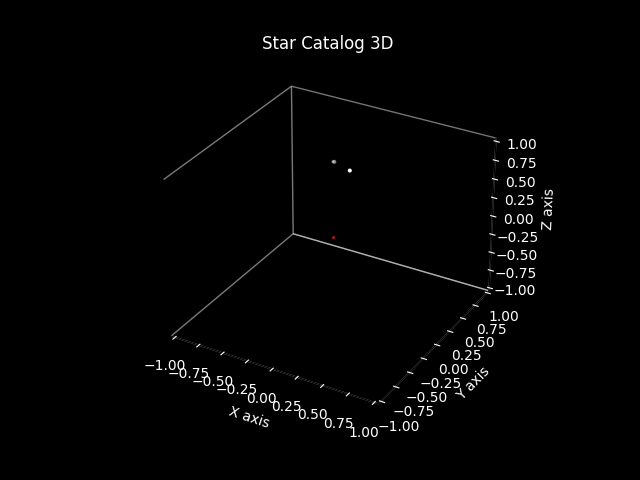
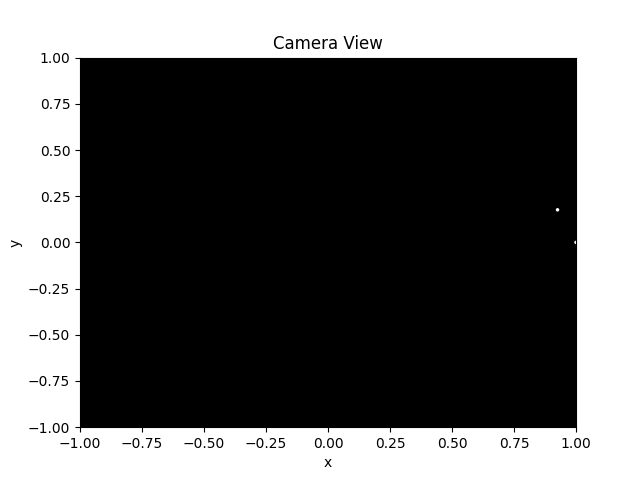
rotation done in camera

diff --git a/star_tracker/modules/camera.py b/star_tracker/modules/camera.py
@@ -1,6 +1,8 @@
 import json
 import numpy as np
 import os
+import copy
+
 try:
     from modules.basic import *
     from modules.line import *
@@ -23,7 +25,7 @@ class Camera():
         self._ar = 0
         self._dec = 0
         self._roll = 0 
-        self.stars = Stars()
+        self._stars = Stars()
         
     @property
     def config(self):
@@ -45,7 +47,15 @@ class Camera():
         self._dots.append(spherical2catersian(-1*self._view_ang/2, self._view_ang/2))
         self._dots.append(spherical2catersian(-1*self._view_ang/2, -1*self._view_ang/2))
         self._dots.append(spherical2catersian( 1*self._view_ang/2, -1*self._view_ang/2))
-    
+        
+        #print(self._dots[0])
+        #print(self._dots[1])
+        #print(self._dots[2])
+        #print(self._dots[3])
+        self._n = self._dots[0][0]
+        self._t = self._dots[0][1]
+        self._l = self._dots[0][1]
+        
         aux = self._dots
         self._position_dict = {'x' : [aux[0][0], aux[1][0], aux[2][0], aux[3][0]], 'y': [aux[0][1], aux[1][1], aux[2][1], aux[3][1]],'z': [aux[0][2], aux[1][2], aux[2][2], aux[3][2]]}
     
@@ -55,8 +65,8 @@ class Camera():
     
     @stars.setter
     def stars(self, value):
-        self._stars = value
-
+        self._stars = value   
+        
     @property
     def roll(self):
         return self._roll
@@ -69,7 +79,7 @@ class Camera():
         q = [cos(diff/2), sin(diff/2)*x, sin(diff/2)*y, sin(diff/2)*z]
         self.rotate_axles(q)
         self.rotate_dots(q)
-        q = [q[0], -q[1], -q[2], -q[3]]
+        q = [q[0],-q[1],-q[2],-q[3]]
         self.stars.rotate(q)
         
     @property
@@ -84,7 +94,7 @@ class Camera():
         q=[cos(diff/2), x*sin(diff/2), y*sin(diff/2), z*sin(diff/2)]
         self.rotate_axles(q)
         self.rotate_dots(q)
-        q = [q[0], -q[1], -q[2], -q[3]]
+        q = [q[0],-q[1],-q[2],-q[3]]
         self.stars.rotate(q)
         
     @property
@@ -98,7 +108,8 @@ class Camera():
         q=[cos(diff/2),0,0,sin(diff/2)]
         self.rotate_axles(q)
         self.rotate_dots(q)
-        q = [q[0], -q[1], -q[2], -q[3]]
+        
+        q = [q[0],-q[1],-q[2],-q[3]]
         self.stars.rotate(q)
         
     def rotate_axles(self,q):
@@ -147,24 +158,47 @@ class Camera():
                 out['dec'][i].append(dec)
         return out
     
-    def take_frame(self):
-        n = np.cos(self._view_ang/2)
+    def perspective(self,stars,n,t,r):
         f = 1
-        stars = self._stars.getDict()
-        res = {'x':[], 'y':[], 'z':[],'v':[]}
-        perspective = [[1/((self._w/self._h)*np.tan(self._view_ang/2)), 0                         , 0        , 0],
-                       [0                                             , 1/np.tan(self._view_ang/2), 0        , 0],
-                       [0                                             , 0                         , f/(f-n), -f*n/(f-n)],
-                       [0                                             , 0                         , 1        , 0]]
-        for i in range(len(stars['x'])):
-            star =[[stars['x'][i]],[stars['y'][i]],[stars['z'][i]],[1]]
+        b = -t
+        l = -r
+        
+        #"""
+        perspective = [[ (f+n),         0,         0, -f*n],
+                       [     0,         n,         0,    0],
+                       [     0,         0,         n,    0],
+                       [     1,         0,         0,    0]]
+        #"""
+        perspective = [[ (f+n)/(f-n),         0,         0, -2*f*n/(f-n)],
+                       [-(r+l)/(r-l), 2*n/(r-l),         0,            0],
+                       [-(t+b)/(t-b),         0, 2*n/(t-b),            0],
+                       [           1,         0,         0,            0]]
+        #"""
+        res =[]
+        for i in (stars):
+            star =[[i[0]],[i[1]],[i[2]],[1]]
             aux = np.dot(perspective, star)
-            if(aux[3][0] > 0):
+            #if(aux[1][0] > 0):
+            if True:
                 aux = aux/aux[3][0]
-                res['x'].append(float(aux[0]))
-                res['y'].append(float(aux[1]))
-                res['z'].append(float(aux[2]))
-                res['v'].append(stars['v'][i])
+                res.append([])
+                res[-1].append(float(aux[0]))
+                res[-1].append(float(aux[1]))
+                res[-1].append(float(aux[2]))
+        return res
+
+    def take_frame(self):
+        stars = self.stars.getDict()
+        st=[]
+        for i in range(len(stars['x'])):
+            st.append([stars['x'][i],stars['y'][i],stars['z'][i]])
+        res = {'x':[], 'y':[], 'z':[],'v':[]}
+        aux = self.perspective(st,self._n,self._t,self._l)
+        for i in range(len(aux)):
+            res['x'].append(aux[i][0])
+            res['y'].append(aux[i][1])
+            res['z'].append(aux[i][2])
+            res['v'].append(stars['v'][i]) 
         la = CameraView(Figure())
         la.stars  = res
         try:

diff --git a/star_tracker/modules/basic.py b/star_tracker/modules/basic.py
@@ -1,4 +1,4 @@
-from numpy import rad2deg, sin, cos, arccos,sqrt, pi, arccos, arcsin, arctan
+from numpy import rad2deg, sin, cos, arccos,sqrt, pi, arccos, arcsin, arctan, linalg, array
 
 def spherical2catersian(ar, dec):
     if isinstance(ar,list):
@@ -47,7 +47,31 @@ def quaternus_rotation(q,v):
     out.append(2*v[0]*(q[0]*q[3]+q[1]*q[2]) + v[1]*(q[0]*q[0]-q[1]*q[1]+q[2]*q[2]-q[3]*q[3])+2*v[2]*(q[2]*q[3]-q[0]*q[1]))
     out.append(2*v[0]*(q[1]*q[3]-q[0]*q[2]) + 2*v[1]*(q[0]*q[1]+q[2]*q[3]) + v[2]*(q[0]*q[0]-q[1]*q[1]-q[2]*q[2]+q[3]*q[3]))
     return out
-    
+
+def positions_to_quaternus(initial_position,final_position):
+    b_list = []
+    for i in range(0,4):
+        for j in range(0,3):
+            b_list.append(final_position[i][j])
+    a_list = []
+    for i in range(0,4):
+        x = initial_position[i][0]
+        y = initial_position[i][1]
+        z = initial_position[i][2]
+        ##       | q0^2 | q1^2 | q2^2 | q3^2 | q0q1 | q0q2 | q0q3 | q1q2 | q1q3 |  q2q3 |  
+        a_list.append([      x,     x,    -x,    -x,     0,   2*z,  -2*y,   2*y,   2*z,     0])
+        a_list.append([      y,    -y,     y,    -y,  -2*z,     0,   2*x,   2*x,     0,   2*z])
+        a_list.append([      z,    -z,    -z,     z,   2*y,  -2*x,     0,     0,   2*x,   2*y]) 
+    print(b_list)
+    del a_list[-1]
+    del a_list[-1]
+    for i in a_list:
+        print(i)
+    a = array(a_list)
+    b = array(b_list)
+    x = linalg.solve(a,b)
+    print(x)
+
 def deg2rad(ang):
     if isinstance(ang,list):
         out = []

diff --git a/tests/test_camera.py b/tests/test_camera.py
@@ -41,15 +41,17 @@ class TestCamera():
         self._camera.dec = ang
         self._camera.roll = ang
         aux1 = self._camera.position_dict
-        assert pytest.approx(aux['x']) == pytest.approx(aux1['x'])
+        assert aux['x'] == pytest.approx(aux1['x'],0.1)
     
+    """
     def test_position_dict_spherical(self):
         self.load()
         
         aux = self._camera.position_dict_spherical
         #print(aux)
         assert True == False
-    
+    """
+
     def test_coordinates_z(self):
         self.load()
 
@@ -90,6 +92,7 @@ class TestCamera():
         la = aux['y']
         assert la == pytest.approx([ 0, -1, 0])
     
+    """
     def test_take_frame(self):
         self.load()
 
@@ -98,4 +101,10 @@ class TestCamera():
         self._camera.stars = aux
         al = self._camera.take_frame()
         assert True == al
-        
+    """
+    def test_perspective(self):
+        self.load()
+
+        res=self._camera.perspective([[0.5,0,0],[0.5,-0.1,0],[1,1,1],[0.5,0.5,0.5],[1,0.5,0.5]],0.5,0.5,0.5)
+
+        assert res == True

diff --git a/star_tracker/controllers/widget_ctrl.py b/star_tracker/controllers/widget_ctrl.py
@@ -62,6 +62,7 @@ class WidgetController(QObject):
     
     def roll(self,value):
         self._camera.roll= basic.deg2rad(value)
+        self._camera.take_frame()
         self._widget_model.roll = basic.deg2rad(value)
         self._widget_model.camera_position = {'3D':self._camera.position_dict, '2D': self._camera.position_dict_spherical,'3D_pos':self._camera.coordinates}
         
@@ -73,5 +74,6 @@ class WidgetController(QObject):
 
     def dec(self,value):
         self._camera.dec = basic.deg2rad(value)
+        self._camera.take_frame()
         self._widget_model.dec = basic.deg2rad(value)
         self._widget_model.camera_position = {'3D':self._camera.position_dict, '2D': self._camera.position_dict_spherical,'3D_pos':self._camera.coordinates}

diff --git a/star_tracker/modules/camera_view.py b/star_tracker/modules/camera_view.py
@@ -38,7 +38,8 @@ class CameraView(FigureCanvas):
         while self._stars_plots:
             self._stars_plots[0].remove()
             del self._stars_plots[0]
-        
-        self._stars_plots.append(self.axes.scatter(value['x'], value['y'], s = value['v'], c = 'white'))
+        for i in range(len(value['y'])):
+            value['y'][i]=-value['y'][i]
+        self._stars_plots.append(self.axes.scatter(value['y'], value['z'], s = value['v'], c = 'white'))
         
         self.draw()

diff --git a/star_tracker/modules/stars.py b/star_tracker/modules/stars.py
@@ -54,16 +54,6 @@ class Stars:
         d3.stars = self.getDict()
         d3.show_stars(True)
         d3.draw()
-        
-        """
-        try:
-            os.remove('./ola.png')
-            os.remove('./oi.png')
-        except:
-            pass
-        d2.figure.savefig('./ola.png')
-        d3.figure.savefig('./oi.png')
-        """
             
     def __len__(self):
         return len(self._n)

diff --git a/tests/test_basic.py b/tests/test_basic.py
@@ -81,3 +81,9 @@ def test_quaternions_product():
     q2=[3,5,6,8]
     q = quaternions_product(q1,q2)
     assert q == [-116, 30, 36, 48]
+
+def test_position_to_quartenius():
+    final=[[0,1,0],[-1,0,0],[0,-1,0],[1,0,0]]
+    initial=[[1,0,0],[0,1,0],[-1,0,0],[0,-1,0]]
+    positions_to_quaternus(initial, final)
+    assert True == True 
